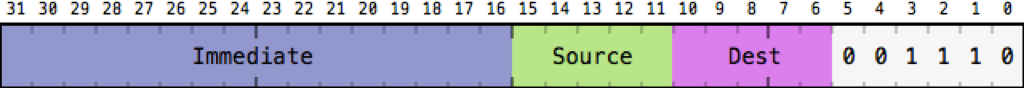
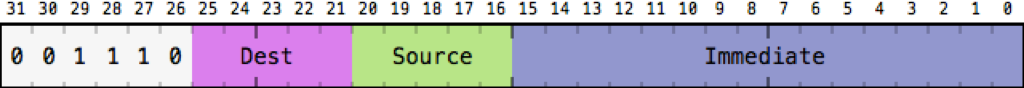
Fix instruction encoding of PowerPC addi.
Apparently PowerPC uses big-endian bit numbering. I did not know such a
thing was even possible.

Thanks to Mattias Engdegård for pointing this out via email.

diff --git a/_posts/2014-01-12-arm-immediate-value-encoding.md b/_posts/2014-01-12-arm-immediate-value-encoding.md
@@ -53,7 +53,7 @@ Compare it also to the equivalent instruction in MIPS, `addi`:
 
 ![MIPS instruction encoding for ADDI instruction](/images/arm-immediate/mips.svg)
 
-Or the strangely backwards PowerPC, also called `addi`:
+Or the similar PowerPC, also called `addi`:
 
 ![PowerPC instruction encoding for ADDI instruction](/images/arm-immediate/powerpc.svg)
 
